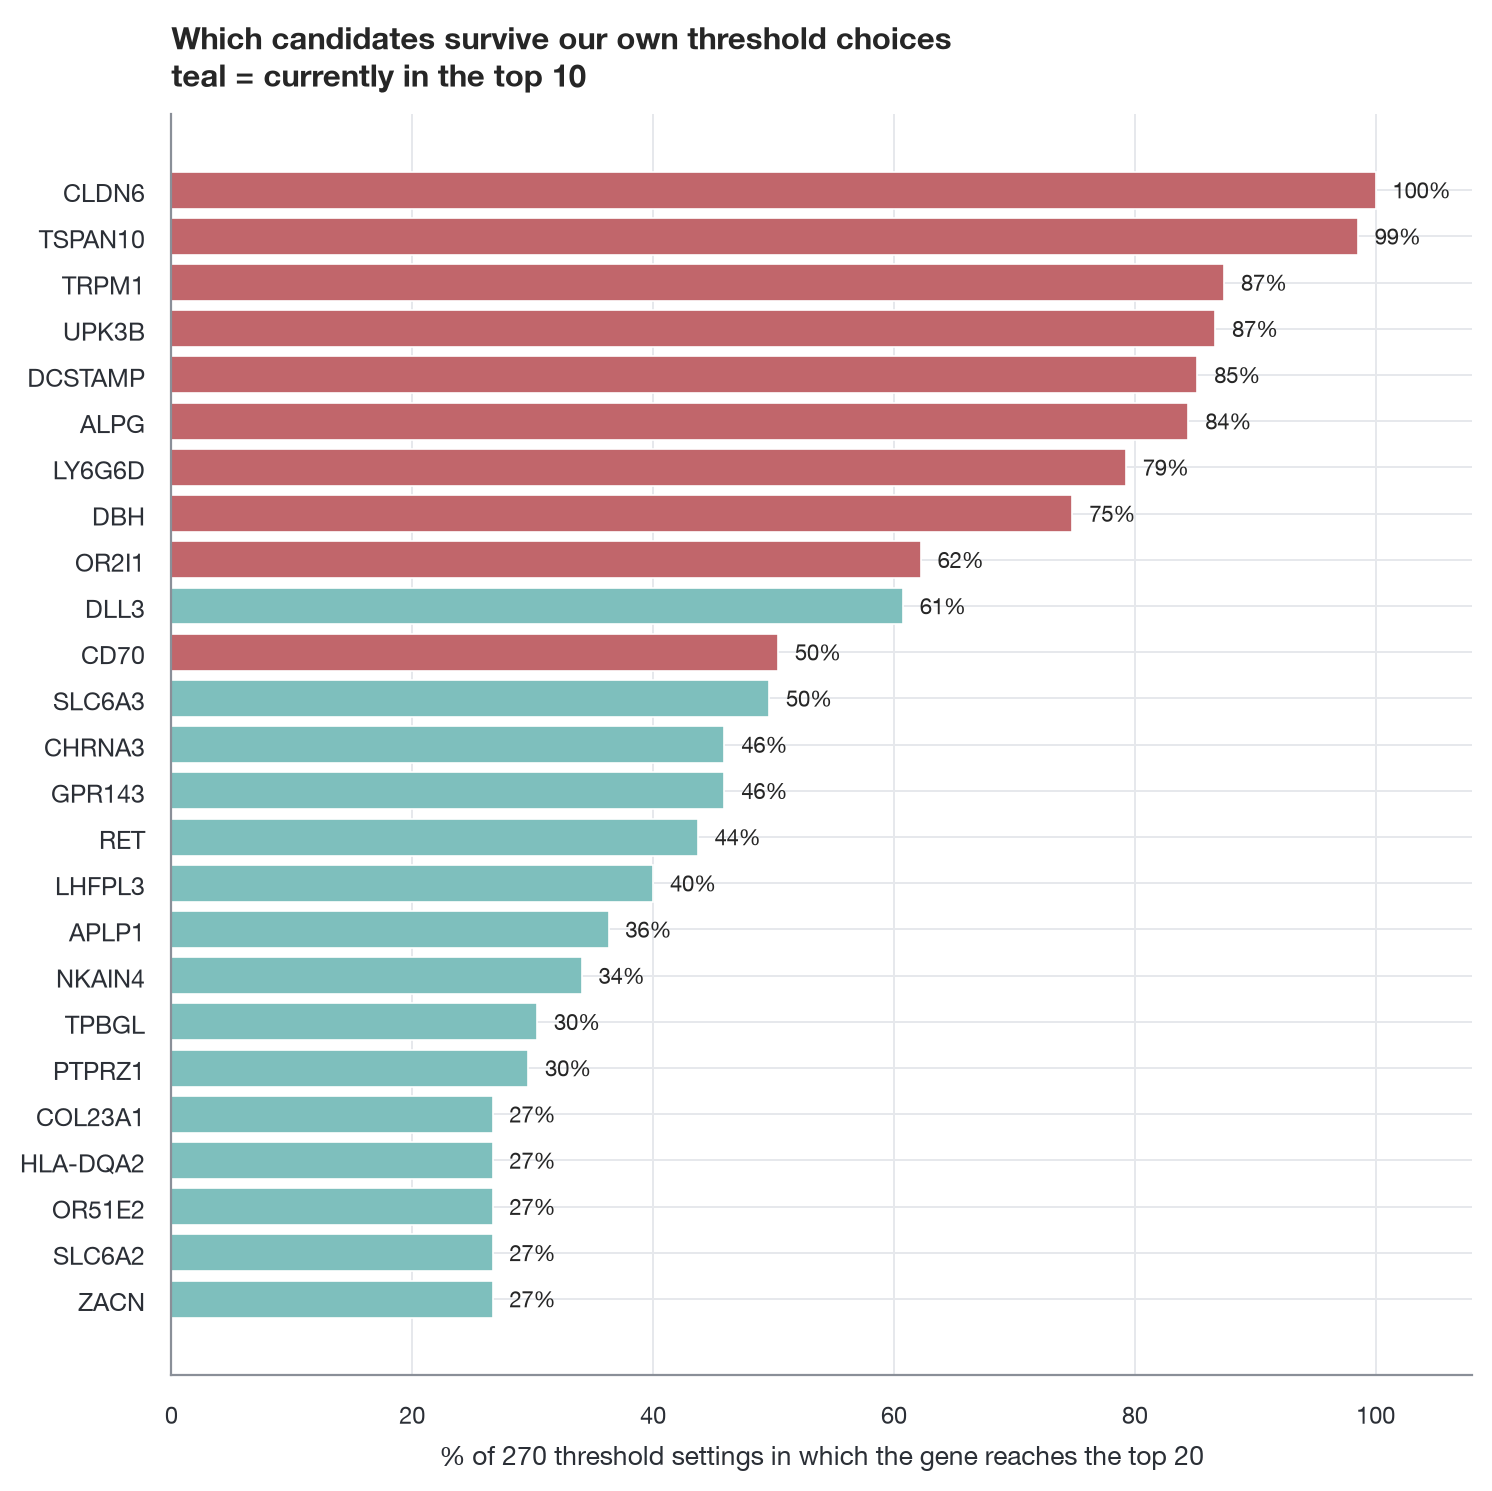
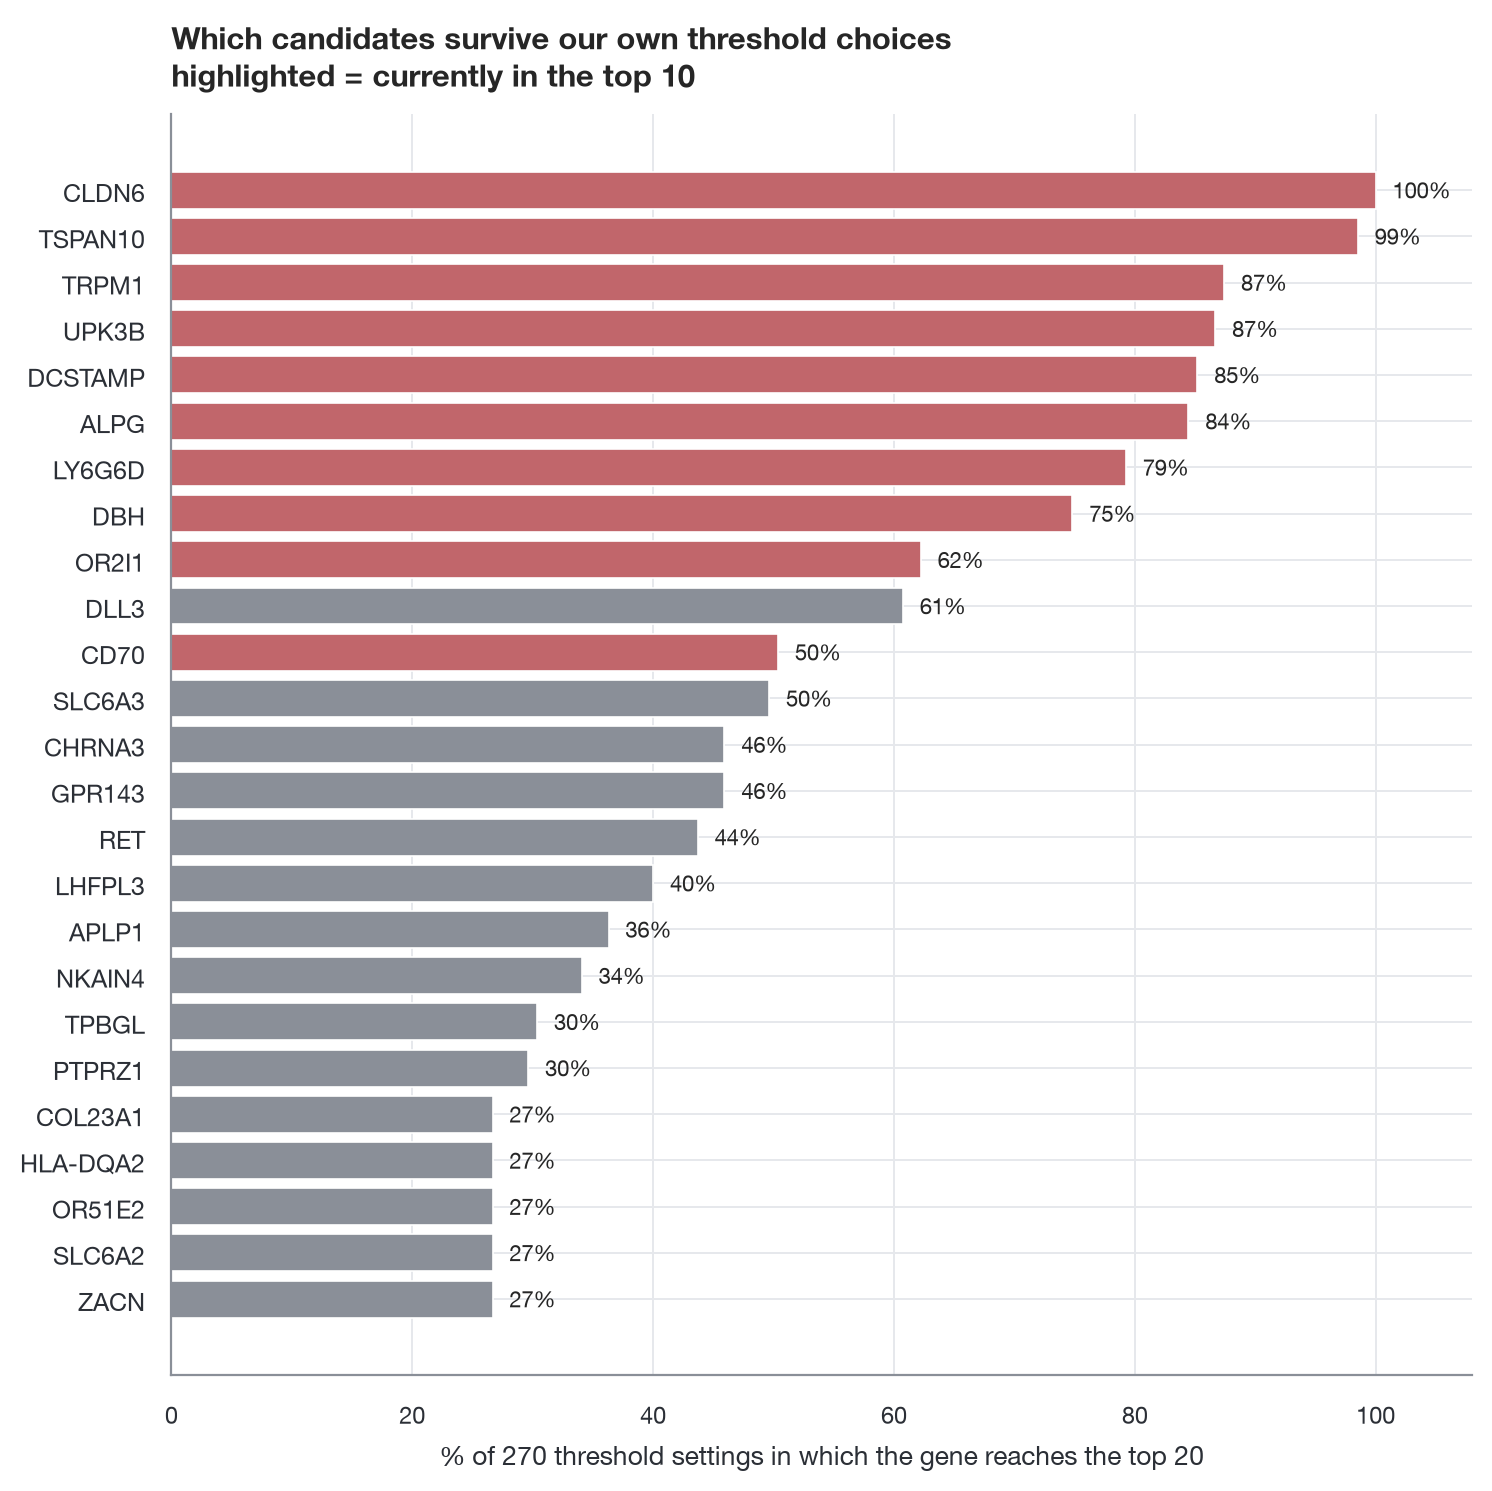
Step 9: fix figure legend contradicting its own colours
The caption said teal marked the top 10 while ACCENT (#c1666b) drew them in
salmon, so the legend named the wrong half of the chart.

Changed region(s): [[0.0925, 0.3702, 0.6166, 0.8947], [0.1233, 0.0309, 0.4625, 0.0617]]

diff --git a/src/step9_robustness.py b/src/step9_robustness.py
@@ -53,7 +53,7 @@ import numpy as np
 import pandas as pd
 
 sys.path.insert(0, str(Path(__file__).resolve().parent))
-from plot_style import ACCENT, apply_style, pastel_viridis, save_figure
+from plot_style import ACCENT, GREY, apply_style, save_figure
 from step7_rank import MAX_PER_FAMILY, apply_family_limit, gene_groups
 
 ROOT = Path(__file__).resolve().parent.parent
@@ -280,8 +280,7 @@ def main() -> int:
 
     # ---------------------------------------------------------- figure --
     top = st.head(25).iloc[::-1]
-    pale = pastel_viridis(3, .42)[1]
-    cols = [ACCENT if f else pale for f in top.in_step7_top10]
+    cols = [ACCENT if f else GREY for f in top.in_step7_top10]
     fig, ax = plt.subplots(figsize=(7.6, 7.6))
     ax.barh(range(len(top)), top.stability * 100, color=cols,
             edgecolor="white", linewidth=.6)
@@ -290,7 +289,7 @@ def main() -> int:
     ax.set_xlabel(f"% of {len(rdf)} threshold settings in which the gene "
                   f"reaches the top {TOP_N}")
     ax.set_title("Which candidates survive our own threshold choices\n"
-                 "teal = currently in the top 10", loc="left")
+                 "highlighted = currently in the top 10", loc="left")
     ax.set_xlim(0, 108)
     for i, v in enumerate(top.stability * 100):
         ax.text(v + 1.4, i, f"{v:.0f}%", va="center", fontsize=8)
